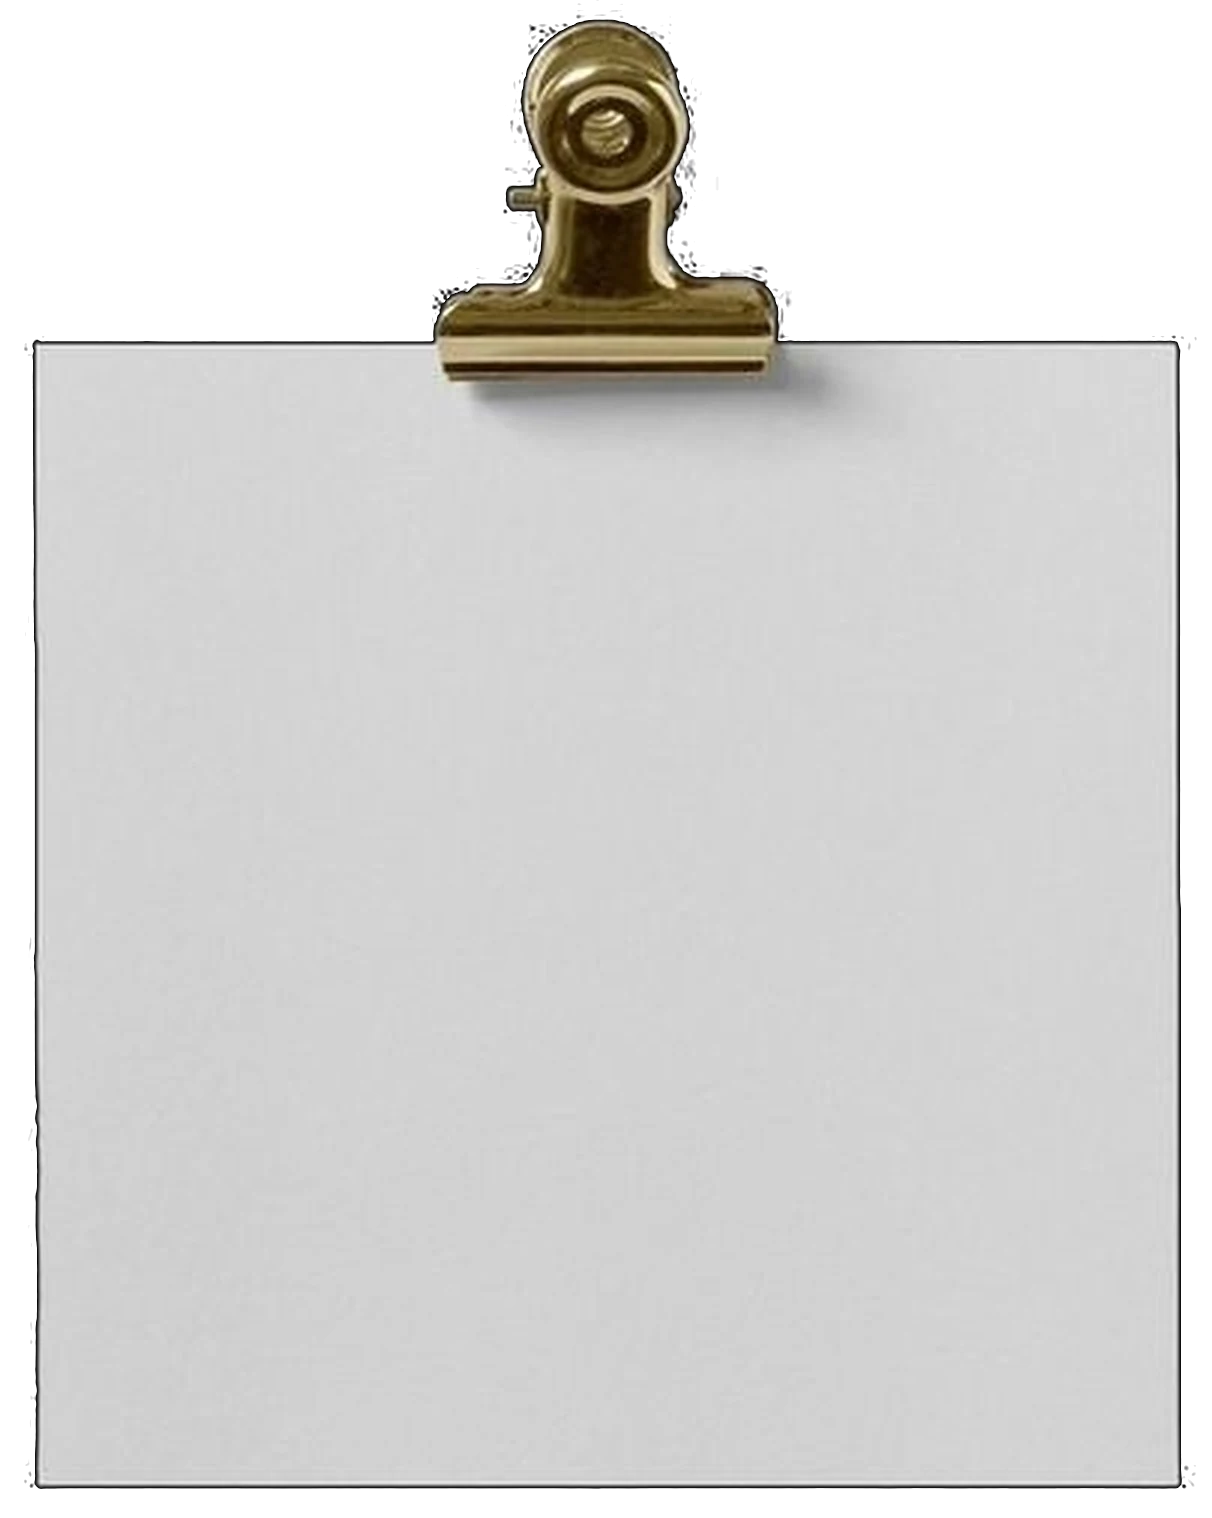
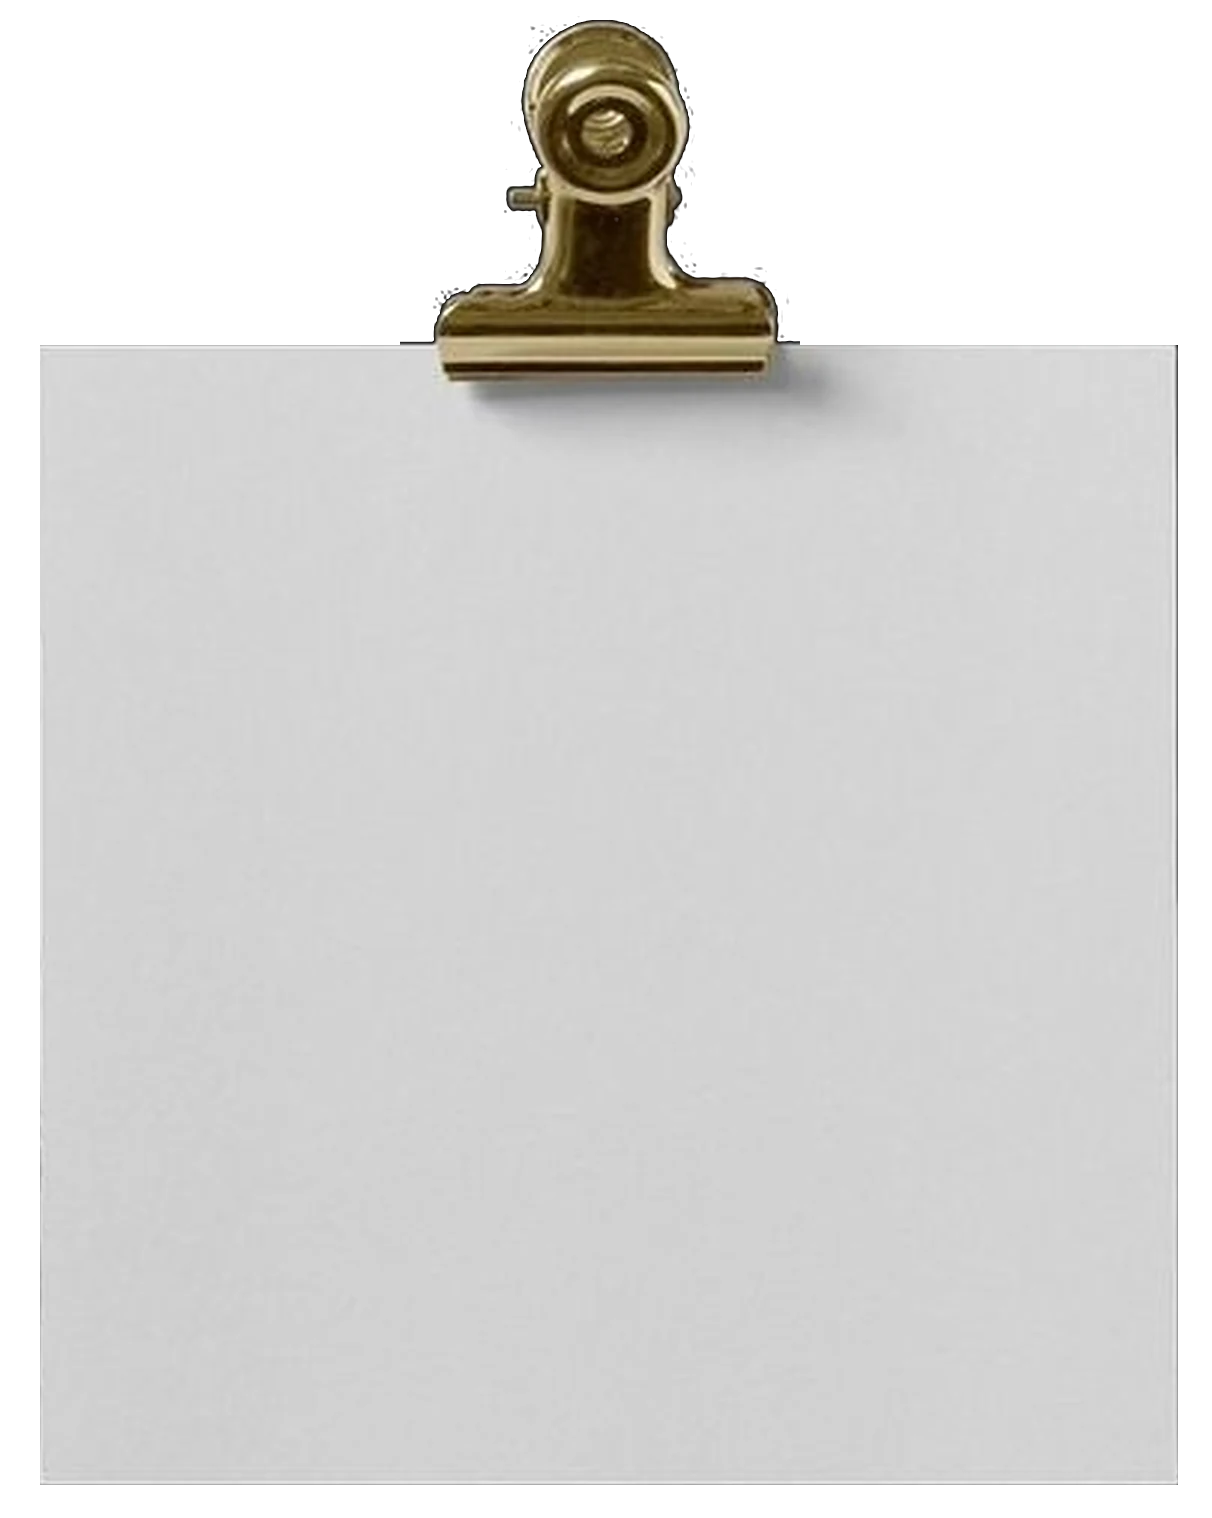
Add files via upload

diff --git a/index.html b/index.html
@@ -30,15 +30,15 @@
     position: relative; width: min(86vw, 82svh * 404 / 506, 600px); aspect-ratio: 404 / 506;
     container-type: inline-size; isolation: isolate;
     transform: translateX(-3%);               /* keep sheet + tabs visually centred */
-    --u: 0.09406cqw;                          /* 1/1000 of the paper width */
+    --u: 0.09389cqw;                          /* 1/1000 of the paper width */
   }
   .photo { position: absolute; inset: 0; width: 100%; height: 100%; z-index: 1; pointer-events: none; user-select: none; }
-  .paper { z-index: 2; position: absolute; left: 2.97%; top: 22.53%; width: 94.06%; height: 75.1%; isolation: isolate; }
+  .paper { z-index: 2; position: absolute; left: 3.30%; top: 22.73%; width: 93.89%; height: 75.1%; isolation: isolate; }
 
   /* ---------- index tabs ---------- */
   .tabs {
     --tuck: calc(24 * var(--u));              /* part of every tab hidden under the paper */
-    position: absolute; left: calc(97.03% - var(--tuck)); top: 22.53%; height: 75.1%;
+    position: absolute; left: calc(97.19% - var(--tuck)); top: 22.73%; height: 75.1%;
     display: flex; flex-direction: column; justify-content: center; gap: calc(14 * var(--u));
   }
   .tab {
